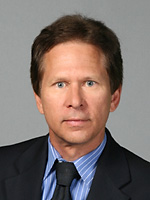
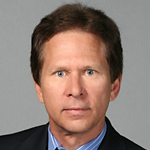
fixed image stretching

diff --git a/people.html b/people.html
@@ -71,7 +71,7 @@
                 col-md-4 means that on medium screens, colmn will take up a third of the length (12/4 = 3).  
                 col-sm-6 means that on small screens, colmn will take up half the of the length (12/6 = 2).-->
                 <div class="col-lg-3 col-md-4 col-sm-6">
-                    <img src="assets/images/Julia.jpeg" alt="Place holder">
+                    <img src="assets/images/Julia.jpg" alt="Place holder">
                     <p>Julia <br> VR</p>
                 </div>
                 <div class="col-lg-3 col-md-4 col-sm-6">

diff --git a/assets/css/people.css b/assets/css/people.css
@@ -4,7 +4,7 @@ body {
 
 .style-fix img {
     height: 50%;
-    width: 35%;
+    width: 50%;
     display: block;
     margin-left: auto;
     margin-right: auto;
